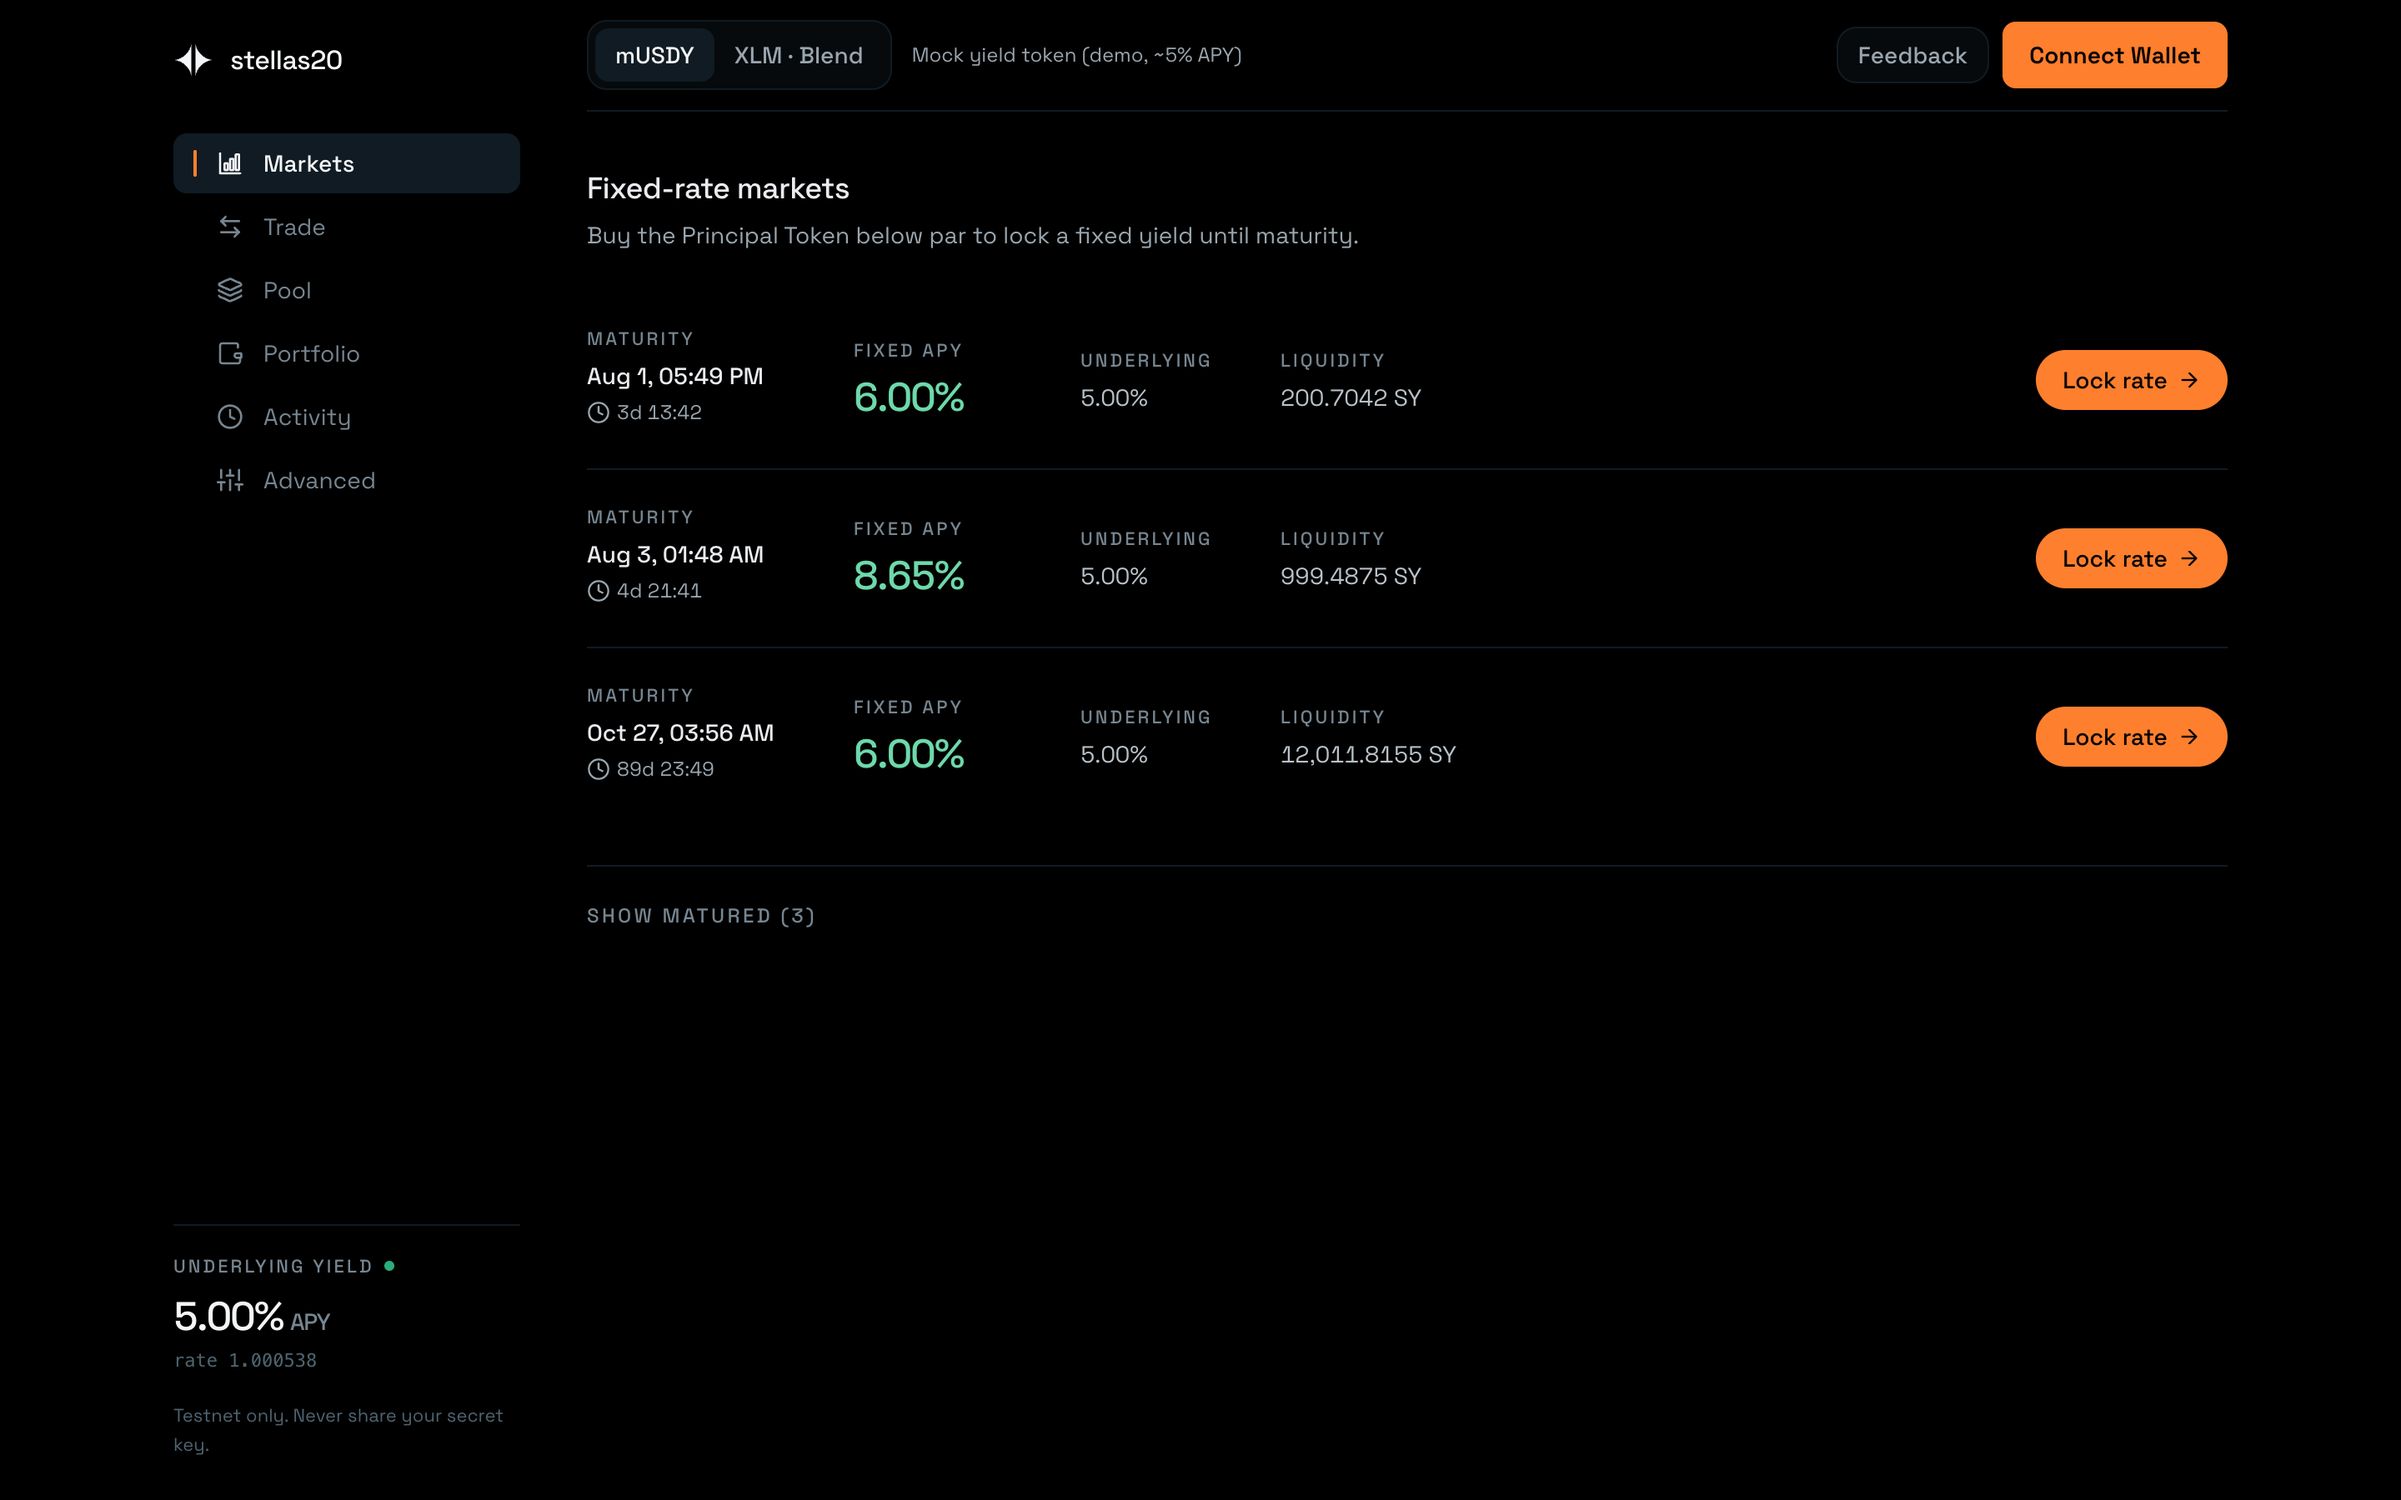
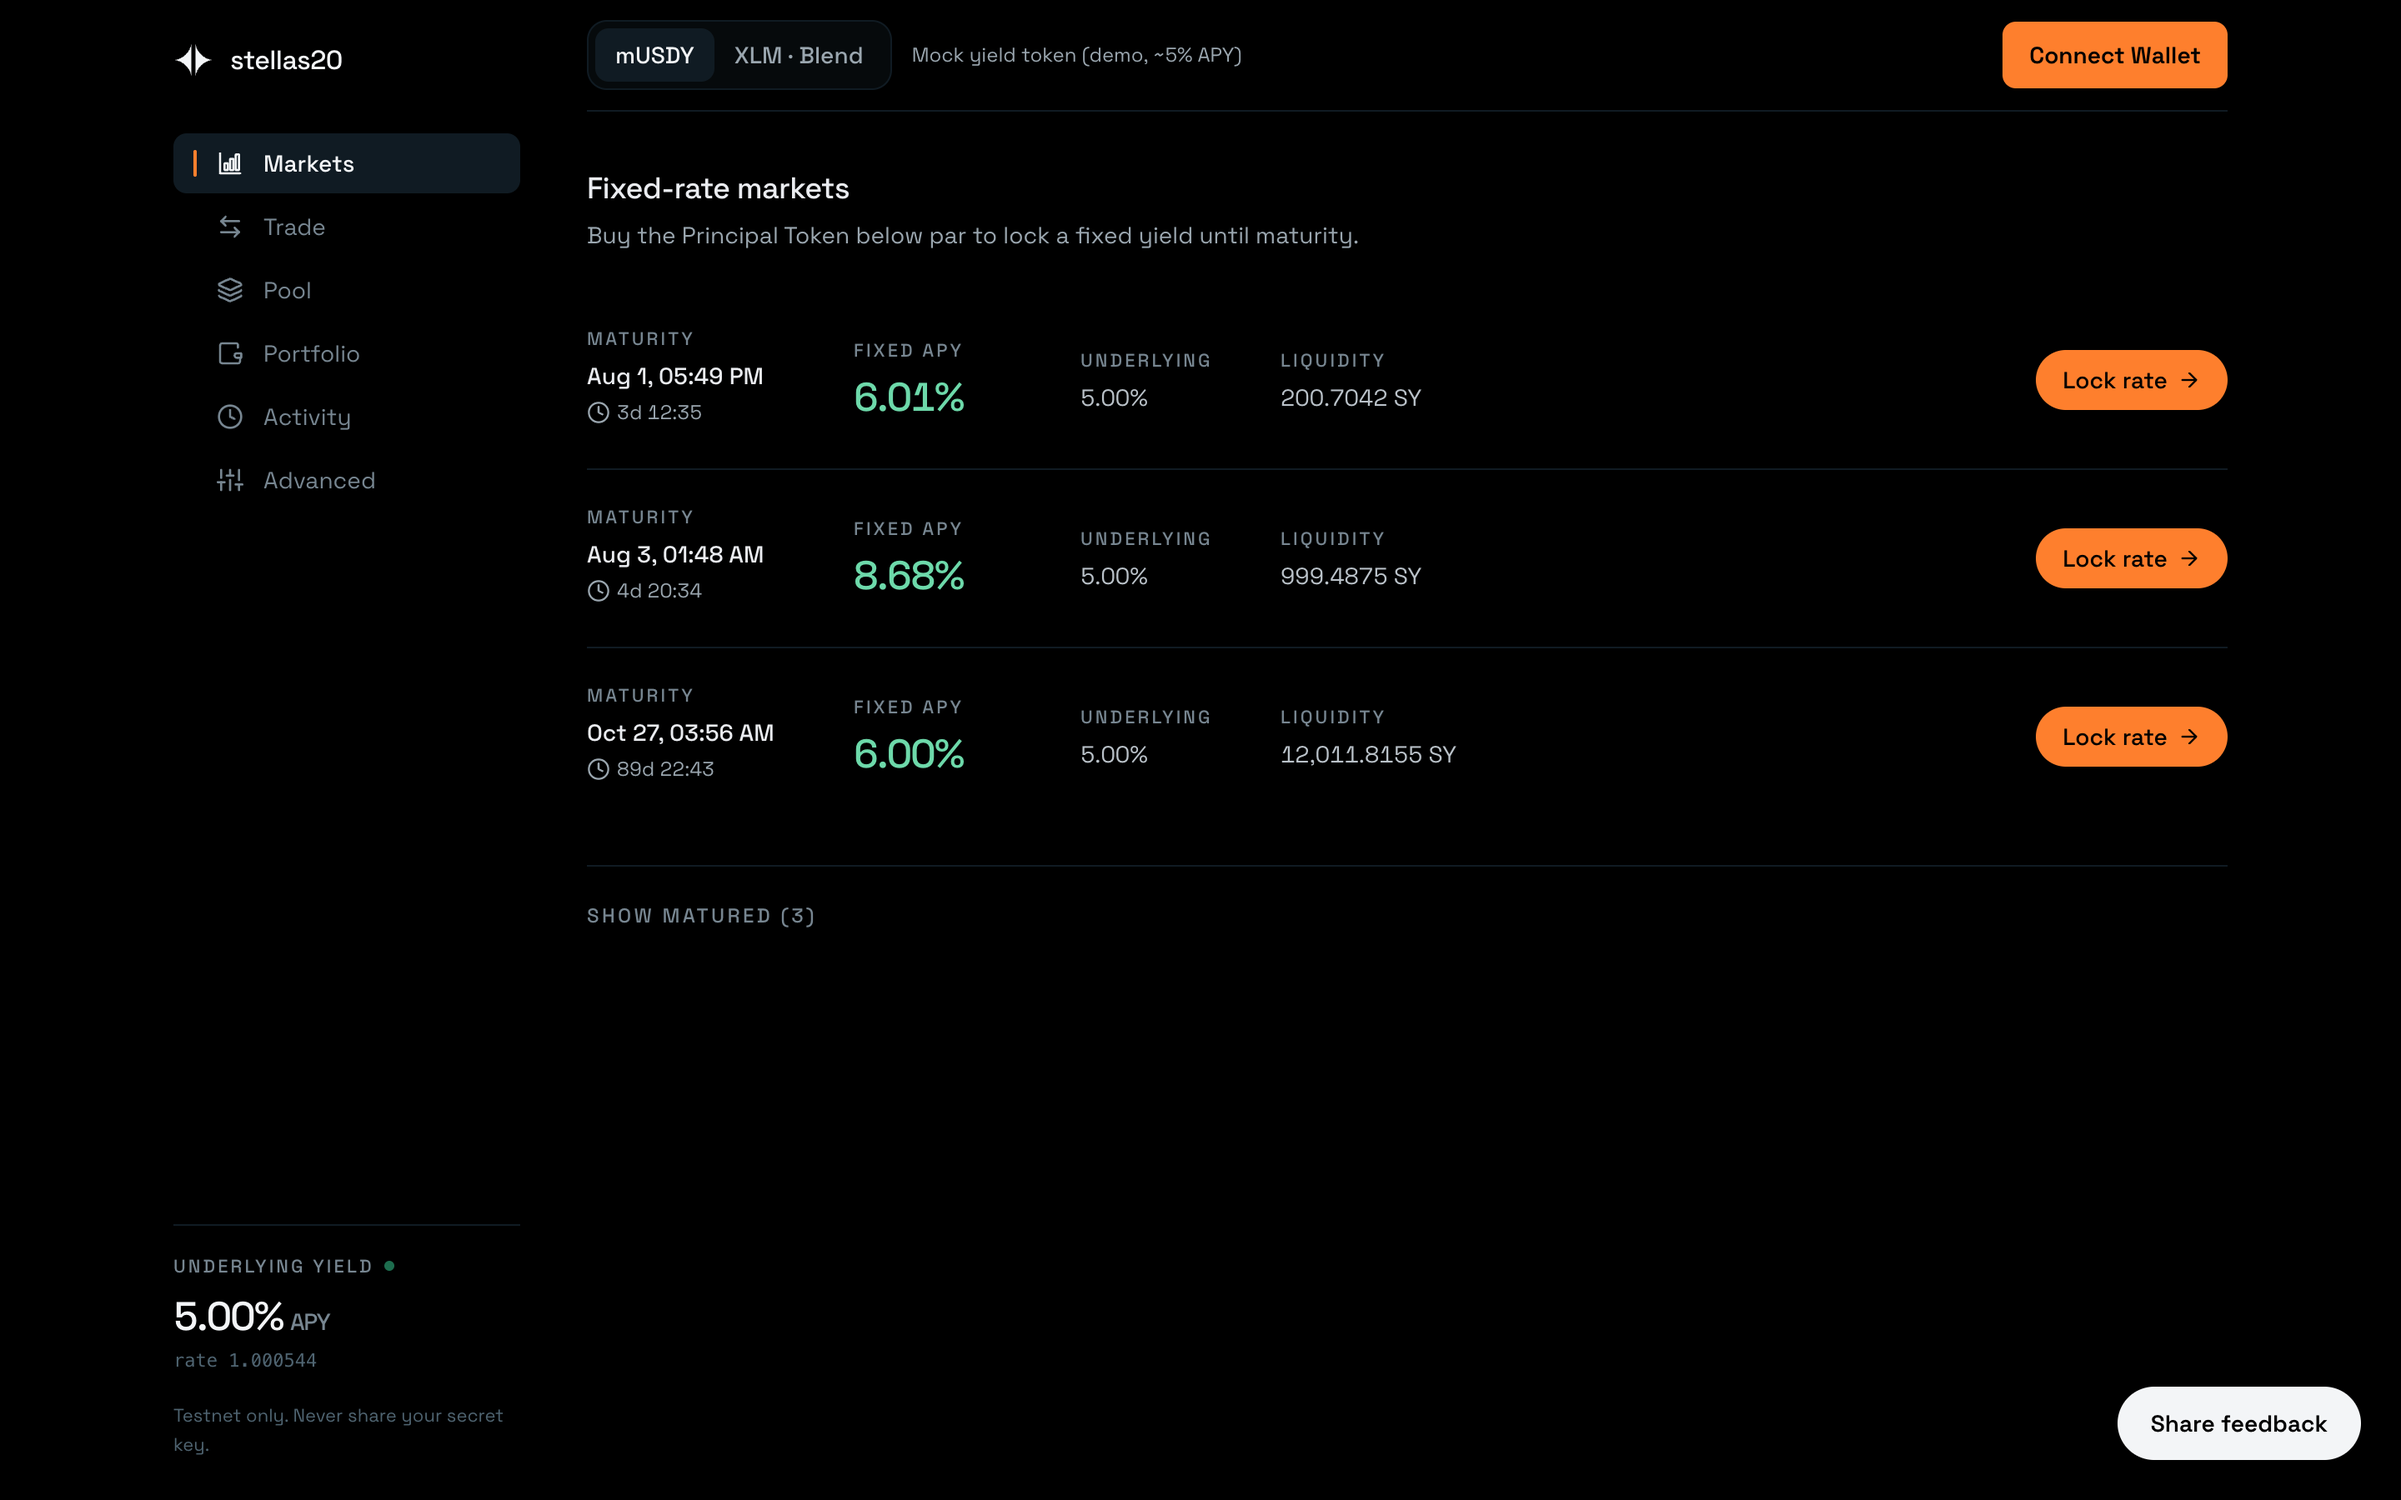
fix: keep the floating feedback button on desktop
Moving it into the header fixed the phone-width collision but also threw
away the floating placement everywhere else, including the widths where
nothing was wrong with it.

Restore it as it was from lg up, and keep the header link only below lg,
where the content column is full-width and a floating button covers each
panel's primary action.

Changed region(s): [[0.875, 0.9022, 1.0, 0.9956], [0.7812, 0.0311, 0.8125, 0.0622], [0.375, 0.2489, 0.4062, 0.28]]

diff --git a/src/App.tsx b/src/App.tsx
@@ -63,6 +63,20 @@ function App(): ReactElement {
           no read, position or form value survives from the previous one. */}
       <MarketContent key={marketKey} marketKey={marketKey} onSwitchMarket={switchMarket} />
 
+      {/* Desktop only. Below lg the same link lives in the header instead: the
+          content column is full-width there, so a floating button sits on top
+          of each panel's primary action and swallows taps meant for it. */}
+      {config.feedbackFormUrl && (
+        <a
+          href={config.feedbackFormUrl}
+          target="_blank"
+          rel="noopener noreferrer"
+          className="fixed bottom-6 right-6 z-40 hidden min-h-11 items-center justify-center rounded-full bg-neutral-50 px-5 py-2.5 text-sm font-semibold text-neutral-950 shadow-lg shadow-black/30 transition-[transform,background-color,box-shadow] duration-100 ease-out hover:-translate-y-0.5 hover:bg-white hover:shadow-xl hover:shadow-black/40 active:translate-y-0 active:shadow-md focus-visible:outline-none focus-visible:ring-2 focus-visible:ring-neutral-50 focus-visible:ring-offset-2 focus-visible:ring-offset-neutral-950 motion-reduce:transform-none motion-reduce:transition-none lg:inline-flex"
+        >
+          Share feedback
+        </a>
+      )}
+
       <Toast />
     </div>
   )
@@ -149,15 +163,14 @@ function MarketContent({ marketKey, onSwitchMarket }: MarketContentProps): React
               <BrandMark className="h-6 w-6 text-neutral-50" />
             </Link>
             <div className="order-2 ml-auto flex items-center gap-2 sm:order-3">
-              {/* Header-level, never floating: every panel's primary action is a
-                  full-width button at the bottom of the column, so an overlay
-                  pinned above the bottom bar covers it at phone widths. */}
+              {/* Phone-width stand-in for the floating button, which is hidden
+                  below lg because it would cover the panels' primary action. */}
               {config.feedbackFormUrl && (
                 <a
                   href={config.feedbackFormUrl}
                   target="_blank"
                   rel="noopener noreferrer"
-                  className="whitespace-nowrap rounded-xl border border-neutral-800 bg-neutral-900 px-3 py-1.5 text-sm font-medium text-neutral-400 transition-colors hover:text-neutral-200 focus-visible:outline-none focus-visible:ring-2 focus-visible:ring-accent-500/60"
+                  className="whitespace-nowrap rounded-xl border border-neutral-800 bg-neutral-900 px-3 py-1.5 text-sm font-medium text-neutral-400 transition-colors hover:text-neutral-200 focus-visible:outline-none focus-visible:ring-2 focus-visible:ring-accent-500/60 lg:hidden"
                 >
                   Feedback
                 </a>
